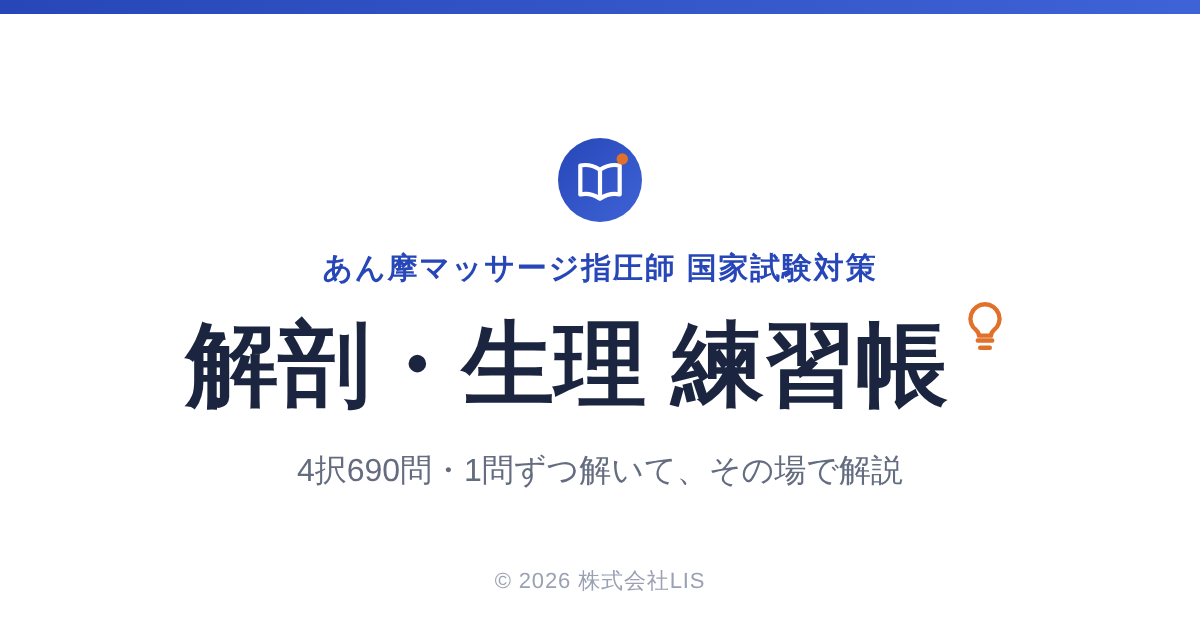
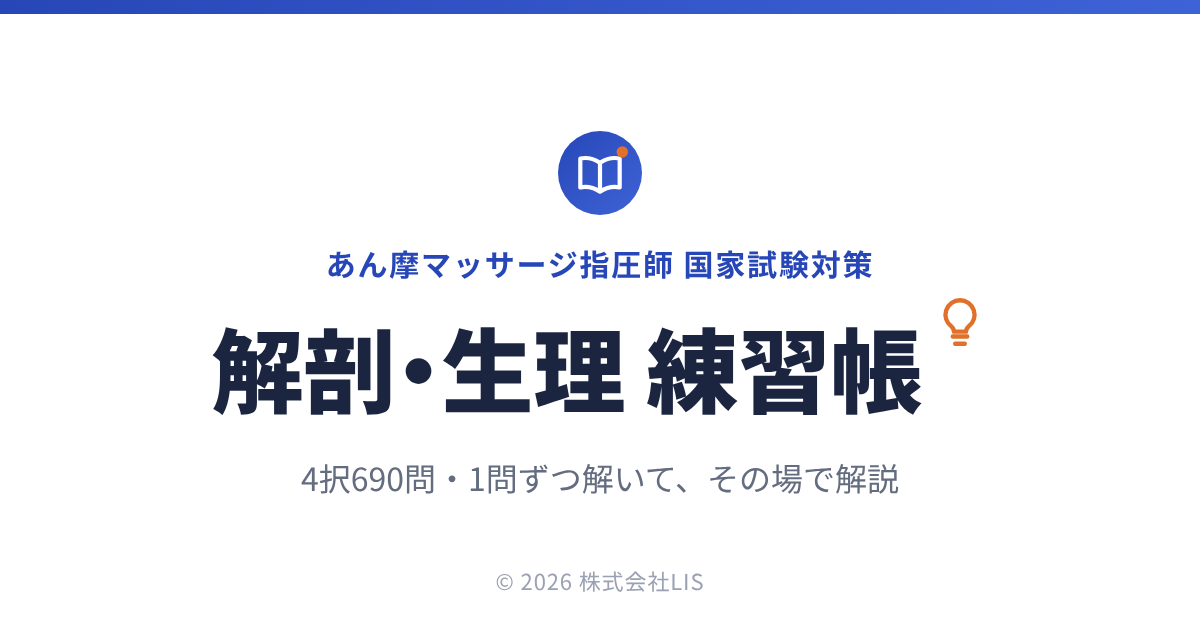
共有画像の書体を日本語フォントに修正、本文の予備フォントを追加
Claude-Session: https://claude.ai/code/session_01AcXuGquGGyUYyybySVMYH3

diff --git a/index.html b/index.html
@@ -29,7 +29,7 @@
 }
 *{box-sizing:border-box}
 html{-webkit-text-size-adjust:100%}
-body{margin:0;background:#fff;color:var(--navy);font-family:"Noto Sans JP",sans-serif;font-size:15px;line-height:1.75;-webkit-tap-highlight-color:transparent}
+body{margin:0;background:#fff;color:var(--navy);font-family:"Noto Sans JP","Hiragino Sans","Hiragino Kaku Gothic ProN",sans-serif;font-size:15px;line-height:1.75;-webkit-tap-highlight-color:transparent}
 button{font:inherit;color:inherit;background:none;border:0;padding:0;cursor:pointer}
 a{color:inherit}
 .wrap{max-width:640px;margin:0 auto}
